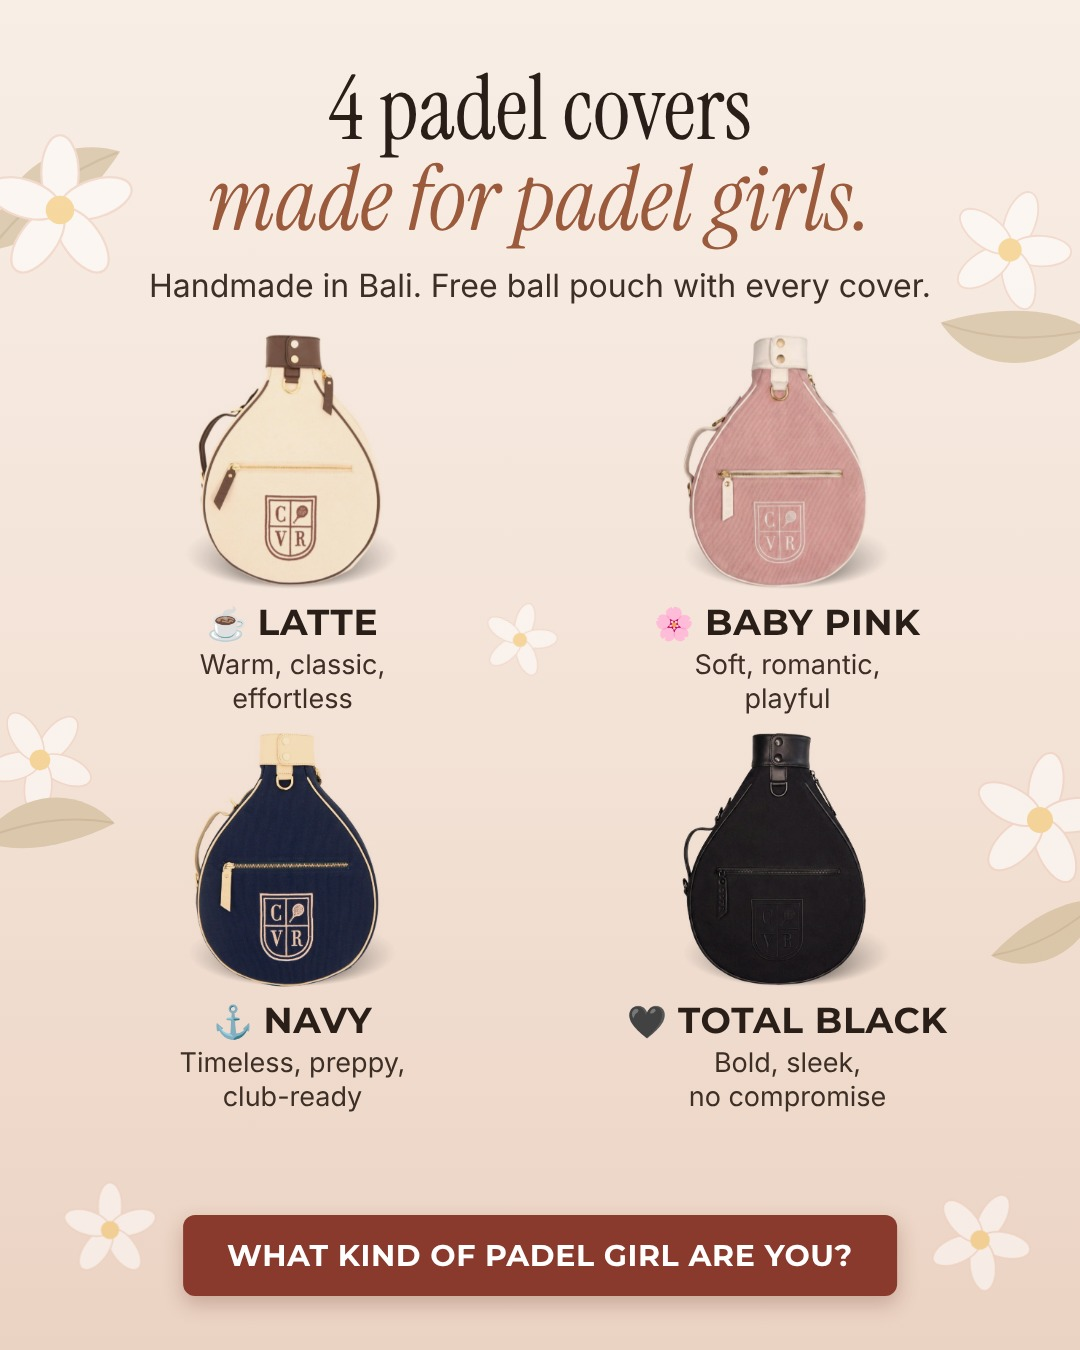
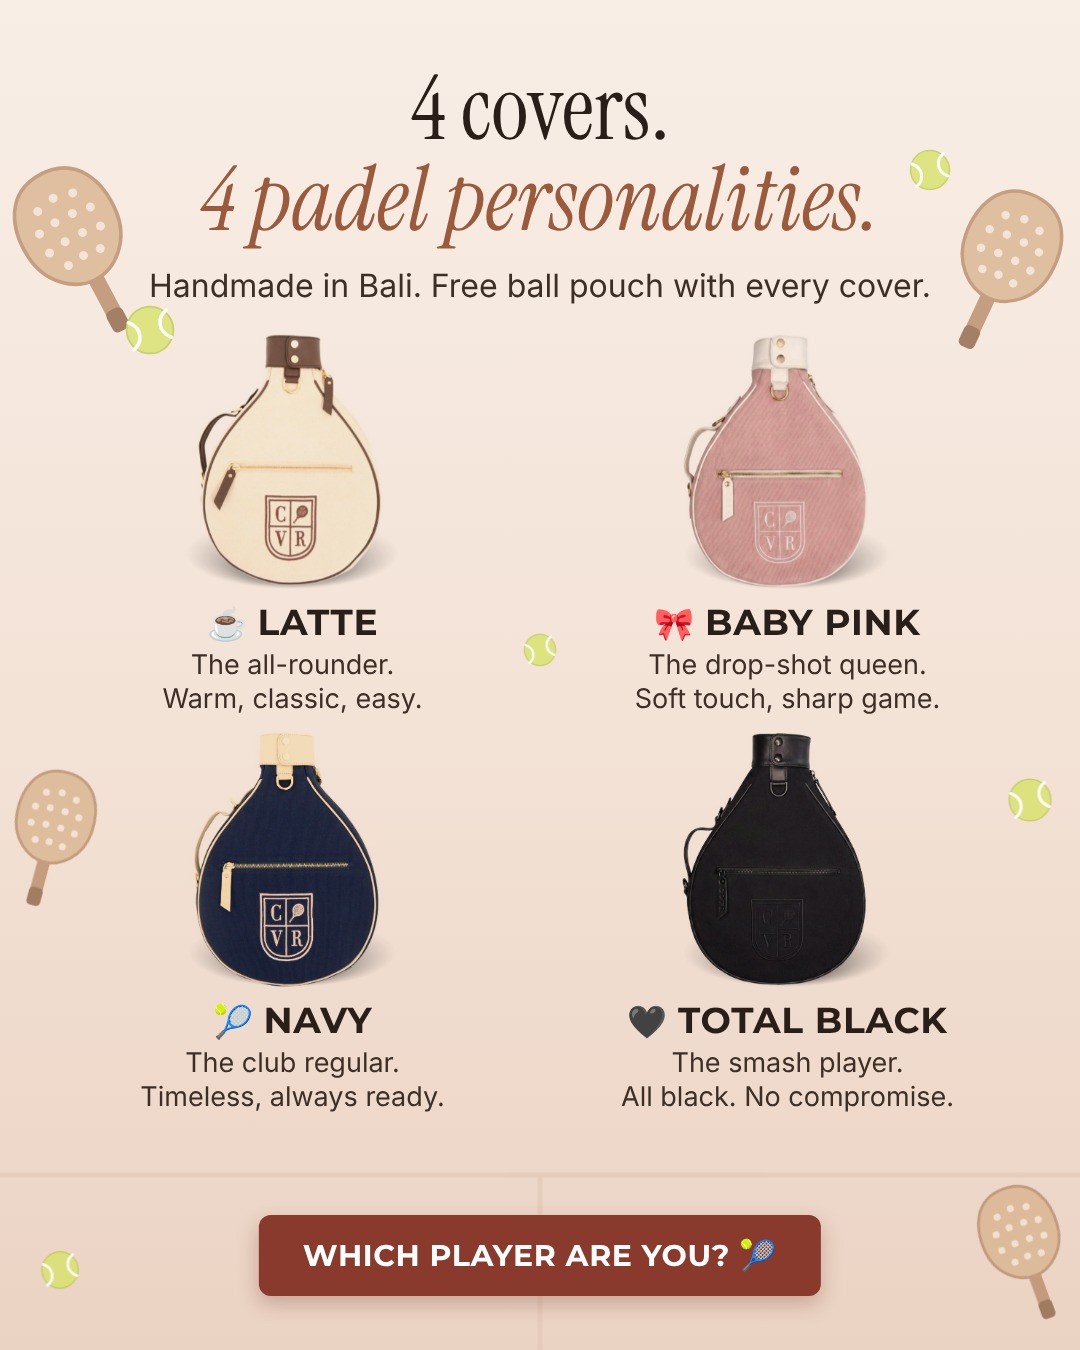
Ad: padel decor (rackets, balls, court lines) and player-type copy
Claude-Session: https://claude.ai/code/session_01V345AG8PM5DpNjc2uC2RjB

diff --git a/ads/instagram/covr-padel-girl-are-you.html b/ads/instagram/covr-padel-girl-are-you.html
@@ -22,28 +22,39 @@ h2{font:italic 400 90px/1.02 IS;color:#9c5a3c}
 </style></head><body>
 <svg class="bg" width="1080" height="1350" viewBox="0 0 1080 1350">
 <defs>
- <g id="fl"><g fill="#fff" stroke="#f0cdbd" stroke-width="2">
-  <ellipse cx="0" cy="-34" rx="17" ry="34" transform="rotate(0)"/><ellipse cx="0" cy="-34" rx="17" ry="34" transform="rotate(72)"/><ellipse cx="0" cy="-34" rx="17" ry="34" transform="rotate(144)"/><ellipse cx="0" cy="-34" rx="17" ry="34" transform="rotate(216)"/><ellipse cx="0" cy="-34" rx="17" ry="34" transform="rotate(288)"/></g>
-  <circle r="13" fill="#f6c96b"/></g>
- <g id="lf"><path d="M0 0 C 30 -60, 90 -70, 130 -40 C 90 -10, 40 10, 0 0 Z" fill="#c9b28a"/><path d="M0 0 C 40 -25, 80 -40, 128 -40" stroke="#b39a70" stroke-width="2" fill="none"/></g>
+ <g id="rk">
+  <rect x="-9" y="52" width="18" height="70" rx="7" fill="#b98b6a"/>
+  <rect x="-10" y="100" width="20" height="26" rx="6" fill="#8f6446"/>
+  <path d="M0 -70 C 45 -70 58 -30 55 5 C 52 40 25 62 0 62 C -25 62 -52 40 -55 5 C -58 -30 -45 -70 0 -70 Z" fill="#d9b48f" stroke="#b98b6a" stroke-width="4"/>
+  <g fill="#f3e2d6">
+   <circle cx="-22" cy="-35" r="5"/><circle cx="0" cy="-40" r="5"/><circle cx="22" cy="-35" r="5"/>
+   <circle cx="-32" cy="-12" r="5"/><circle cx="-11" cy="-15" r="5"/><circle cx="11" cy="-15" r="5"/><circle cx="32" cy="-12" r="5"/>
+   <circle cx="-32" cy="12" r="5"/><circle cx="-11" cy="9" r="5"/><circle cx="11" cy="9" r="5"/><circle cx="32" cy="12" r="5"/>
+   <circle cx="-20" cy="34" r="5"/><circle cx="0" cy="32" r="5"/><circle cx="20" cy="34" r="5"/></g>
+ </g>
+ <g id="bl"><circle r="26" fill="#d8e36a" stroke="#bfc957" stroke-width="2"/>
+  <path d="M-24 -8 C -8 -2 -8 14 -18 22" stroke="#fff" stroke-width="4" fill="none" stroke-linecap="round"/>
+  <path d="M24 8 C 8 2 8 -14 18 -22" stroke="#fff" stroke-width="4" fill="none" stroke-linecap="round"/></g>
 </defs>
-<g opacity=".55">
- <use href="#lf" transform="translate(-10 250) rotate(-20) scale(1.2)"/><use href="#fl" transform="translate(60 210) scale(1.1)"/>
- <use href="#lf" transform="translate(1090 330) rotate(200) scale(1.1)"/><use href="#fl" transform="translate(1010 250) scale(.9) rotate(20)"/>
- <use href="#fl" transform="translate(40 760) scale(.8) rotate(40)"/><use href="#lf" transform="translate(-20 840) rotate(10)"/>
- <use href="#fl" transform="translate(1040 820) scale(1) rotate(10)"/><use href="#lf" transform="translate(1100 900) rotate(170) scale(.9)"/>
- <use href="#fl" transform="translate(520 640) scale(.55) rotate(15)"/>
- <use href="#fl" transform="translate(110 1230) scale(.7)"/><use href="#fl" transform="translate(980 1240) scale(.75) rotate(30)"/>
+<g stroke="#e3c9b6" stroke-width="5" fill="none" opacity=".7">
+ <line x1="0" y1="1175" x2="1080" y2="1175"/><line x1="540" y1="1175" x2="540" y2="1350"/>
+</g>
+<g opacity=".8">
+ <use href="#rk" transform="translate(70 230) rotate(-28) scale(.9)"/><use href="#bl" transform="translate(150 330) scale(.9)"/>
+ <use href="#rk" transform="translate(1010 250) rotate(25) scale(.85)"/><use href="#bl" transform="translate(930 170) scale(.75)"/>
+ <use href="#bl" transform="translate(540 650) scale(.6)"/>
+ <use href="#rk" transform="translate(55 820) rotate(15) scale(.7)"/><use href="#bl" transform="translate(1030 800) scale(.8)"/>
+ <use href="#bl" transform="translate(60 1270) scale(.7)"/><use href="#rk" transform="translate(1020 1235) rotate(-20) scale(.7)"/>
 </g></svg>
 <div class="wrap">
-<h1>4 padel covers</h1><h2>made for padel girls.</h2>
+<h1>4 covers.</h1><h2>4 padel personalities.</h2>
 <div class="sub">Handmade in Bali. Free ball pouch with every cover.</div>
 <div class="grid">
-<div class="it"><img src="latte.jpg"><div class="n"><span>☕</span>LATTE</div><div class="d">Warm, classic,<br>effortless</div></div>
-<div class="it"><img src="baby-pink.jpg"><div class="n"><span>🌸</span>BABY PINK</div><div class="d">Soft, romantic,<br>playful</div></div>
-<div class="it"><img src="navy.jpg"><div class="n"><span>⚓</span>NAVY</div><div class="d">Timeless, preppy,<br>club-ready</div></div>
-<div class="it"><img src="total-black.jpg"><div class="n"><span>🖤</span>TOTAL BLACK</div><div class="d">Bold, sleek,<br>no compromise</div></div>
+<div class="it"><img src="latte.jpg"><div class="n"><span>☕</span>LATTE</div><div class="d">The all-rounder.<br>Warm, classic, easy.</div></div>
+<div class="it"><img src="baby-pink.jpg"><div class="n"><span>🎀</span>BABY PINK</div><div class="d">The drop-shot queen.<br>Soft touch, sharp game.</div></div>
+<div class="it"><img src="navy.jpg"><div class="n"><span>🎾</span>NAVY</div><div class="d">The club regular.<br>Timeless, always ready.</div></div>
+<div class="it"><img src="total-black.jpg"><div class="n"><span>🖤</span>TOTAL BLACK</div><div class="d">The smash player.<br>All black. No compromise.</div></div>
 </div></div>
 
-<div class="btn">WHAT KIND OF PADEL GIRL ARE YOU?</div>
+<div class="btn">WHICH PLAYER ARE YOU? 🎾</div>
 </body></html>
